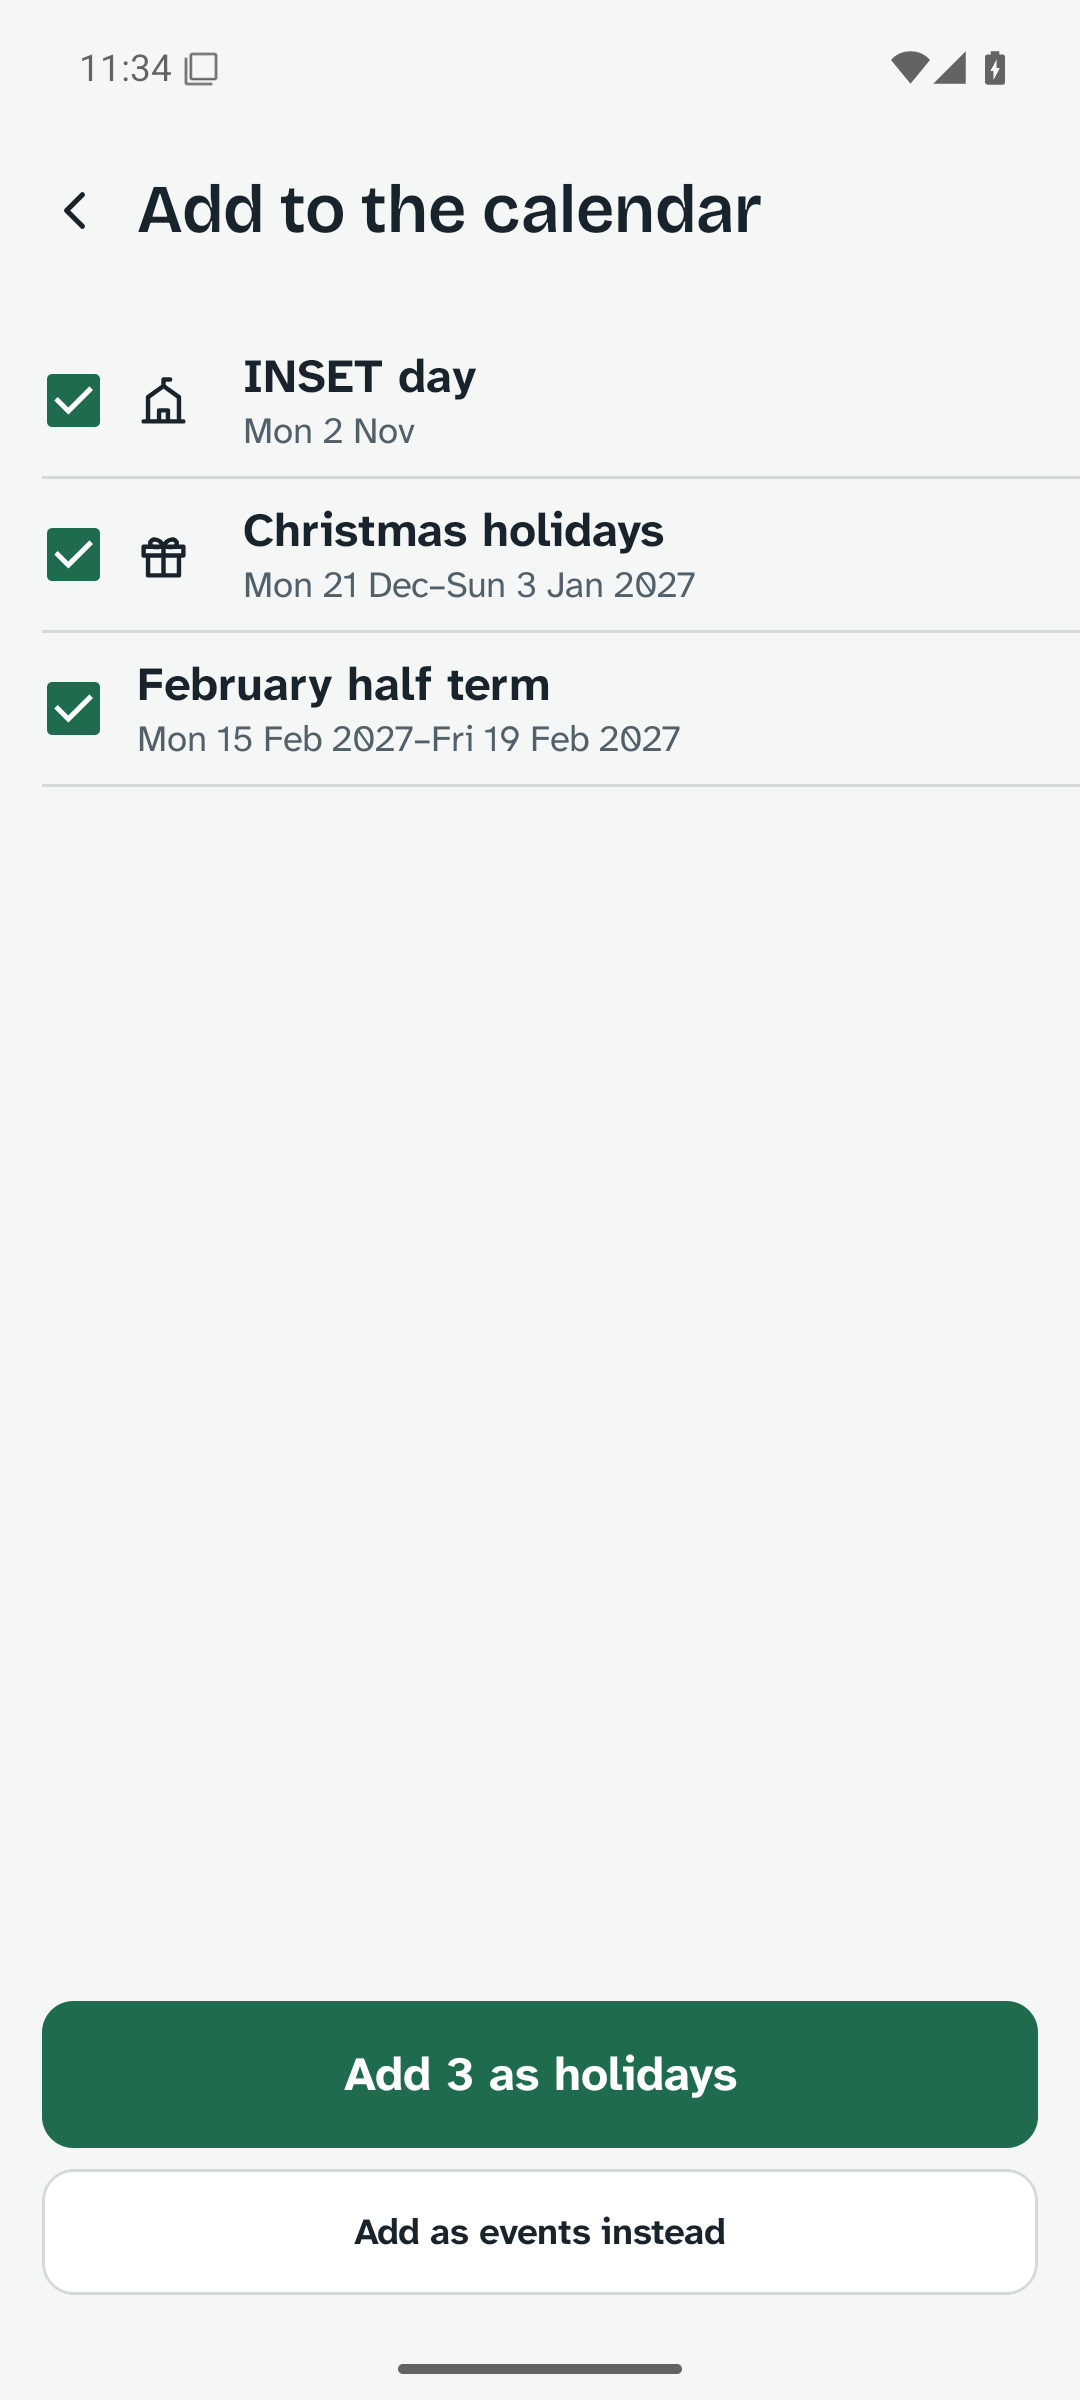
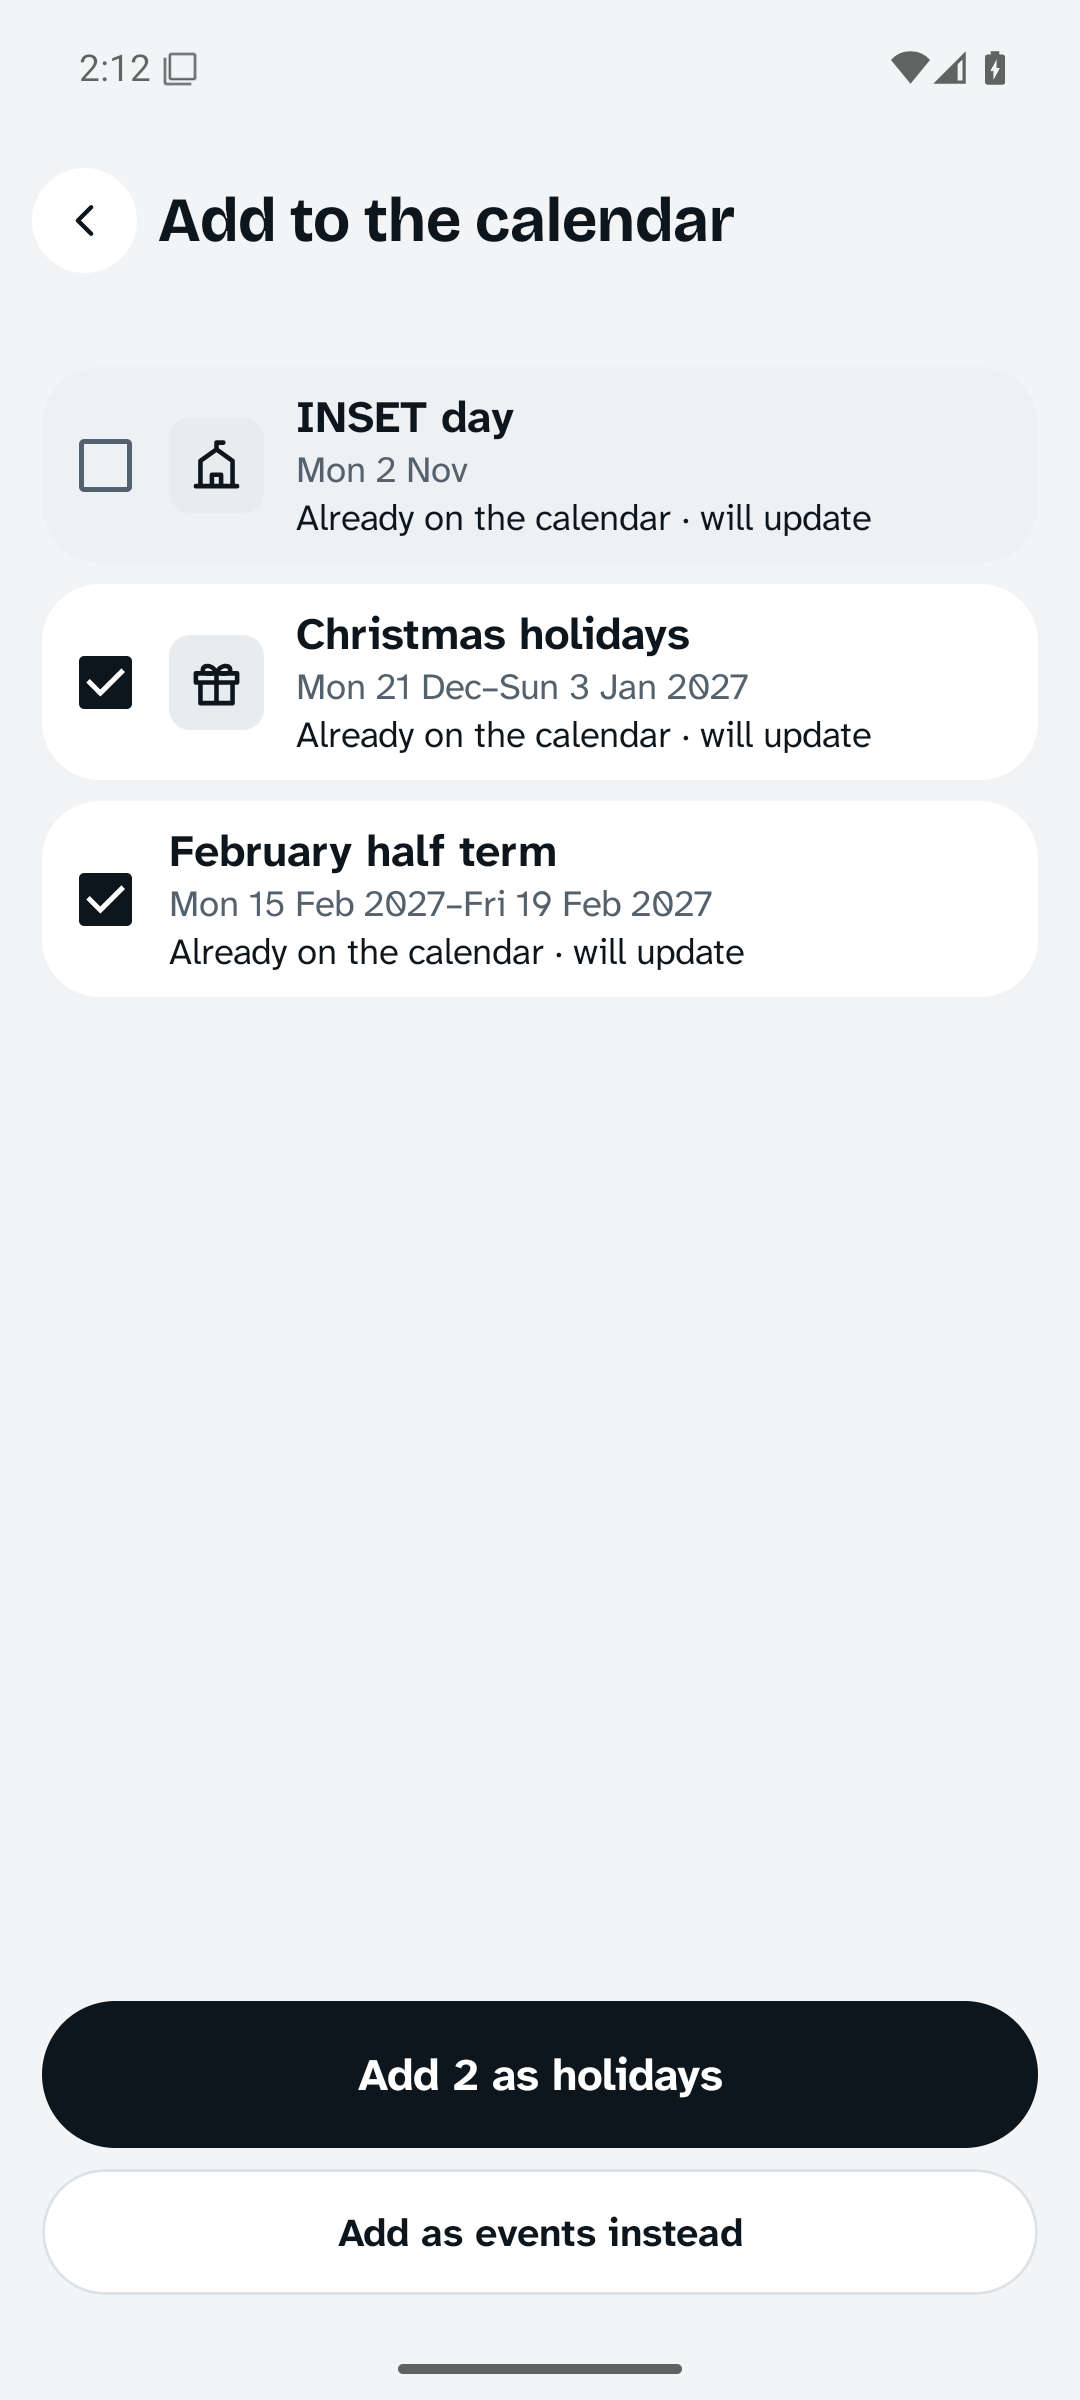
docs: Kitchen Light screenshots, website tokens and copy, DESIGN and REVIEW for the redesign

diff --git a/docs/index.html b/docs/index.html
@@ -14,22 +14,25 @@
 <link href="https://fonts.googleapis.com/css2?family=Atkinson+Hyperlegible+Next:wght@400;700&family=Bricolage+Grotesque:opsz,wght@12..96,600;12..96,700&display=swap" rel="stylesheet">
 <style>
 :root {
-  --paper: #F5F7F6; --surface: #FFFFFF; --sunk: #E9EEEC; --band: #E4EAE7; --rule: #D3DAD7;
-  --ink: #18232B; --ink-muted: #52606A; --action: #1E6B4E; --on-action: #FFFFFF; --today: #B3361C;
+  --paper: #F2F4F6; --surface: #FFFFFF; --sunk: #E8ECEF; --band: #EEF1F3; --rule: #DCE2E6;
+  --ink: #0E161D; --ink-muted: #55616C; --action: #0E161D; --on-action: #FFFFFF; --today: #C2351B; --link: #2456A6;
+  --raised: 0 1px 2px rgb(14 22 29 / 0.05), 0 8px 24px rgb(14 22 29 / 0.06);
+  --floating: 0 2px 4px rgb(14 22 29 / 0.08), 0 24px 48px rgb(14 22 29 / 0.12);
   --display: "Bricolage Grotesque", system-ui, sans-serif;
   --body: "Atkinson Hyperlegible Next", system-ui, sans-serif;
   --measure: 34rem;
 }
 @media (prefers-color-scheme: dark) {
   :root {
-    --paper: #121A1F; --surface: #1B252B; --sunk: #243037; --band: #22303A; --rule: #2C3940;
-    --ink: #E6EDEA; --ink-muted: #A3B1AB; --action: #6CC9A0; --on-action: #0D1A14; --today: #FF8F6B;
+    --paper: #0B0F13; --surface: #161C22; --sunk: #1F272E; --band: #1A2128; --rule: #28313A;
+    --ink: #EEF2F4; --ink-muted: #9EAAB4; --action: #EEF2F4; --on-action: #0B0F13; --today: #FF7B5C; --link: #8DB4F2;
+    --raised: 0 0 0 1px var(--rule); --floating: 0 0 0 1px var(--rule);
   }
 }
 * { box-sizing: border-box; }
 html { -webkit-text-size-adjust: 100%; }
 body { margin: 0; background: var(--paper); color: var(--ink); font: 400 1.0625rem/1.6 var(--body); font-variant-numeric: tabular-nums; }
-a { color: var(--action); text-underline-offset: 0.18em; }
+a { color: var(--link); text-underline-offset: 0.18em; }
 a:hover { text-decoration-thickness: 2px; }
 img { display: block; max-width: 100%; height: auto; }
 .wrap { width: min(72rem, 100% - 2rem); margin-inline: auto; }
@@ -51,17 +54,17 @@ h1 { font-weight: 700; font-size: clamp(2.5rem, 5.5vw, 4rem); line-height: 1.04;
 .ringed::after { content: ""; position: absolute; inset: -0.08em -0.18em -0.02em -0.12em; border: 3px solid var(--today); border-radius: 50%; transform: rotate(-4deg); pointer-events: none; }
 .lede { font-size: 1.25rem; color: var(--ink-muted); max-width: var(--measure); margin: 1.5rem 0 2rem; }
 .actions { display: flex; gap: 0.75rem; flex-wrap: wrap; align-items: center; }
-.button { display: inline-flex; align-items: center; gap: 0.5rem; min-height: 3.5rem; padding: 0 1.5rem; border-radius: 12px; background: var(--action); color: var(--on-action); font-weight: 700; text-decoration: none; }
+.button { display: inline-flex; align-items: center; gap: 0.5rem; min-height: 3.5rem; padding: 0 1.75rem; border-radius: 999px; background: var(--action); color: var(--on-action); font-weight: 700; text-decoration: none; box-shadow: var(--floating); }
 .button:hover { filter: brightness(1.08); }
-.quiet { display: inline-flex; align-items: center; min-height: 3.5rem; padding: 0 1.25rem; border-radius: 12px; border: 1px solid var(--rule); background: var(--surface); color: var(--ink); font-weight: 700; text-decoration: none; }
+.quiet { display: inline-flex; align-items: center; min-height: 3.5rem; padding: 0 1.5rem; border-radius: 999px; border: 1px solid var(--rule); background: var(--surface); color: var(--ink); font-weight: 700; text-decoration: none; }
 .small { font-size: 0.9375rem; color: var(--ink-muted); margin-top: 1rem; }
 
 /* The wall and the pocket: the tablet, with a phone standing in front of it. */
 .stage { position: relative; margin-top: 3.5rem; padding-bottom: 4rem; }
-.tablet { background: var(--surface); border: 1px solid var(--rule); border-radius: 22px; padding: 12px; width: 82%; }
+.tablet { background: var(--surface); border-radius: 26px; padding: 12px; width: 82%; box-shadow: var(--raised); }
 .tablet img { border-radius: 12px; }
-.stage .phone { position: absolute; right: 0; bottom: 0; width: 24%; max-width: none; box-shadow: 0 1.5rem 3rem -1rem rgb(0 0 0 / 0.25); }
-.phone { background: var(--surface); border: 1px solid var(--rule); border-radius: 28px; padding: 9px; max-width: 18rem; margin-inline: auto; }
+.stage .phone { position: absolute; right: 0; bottom: 0; width: 24%; max-width: none; box-shadow: var(--floating); }
+.phone { background: var(--surface); border-radius: 32px; padding: 9px; max-width: 18rem; margin-inline: auto; box-shadow: var(--raised); }
 .phone img { border-radius: 20px; }
 /* Screens whose content sits at the top: shown down to where it ends, not down to an empty floor. */
 .phone.crop img { aspect-ratio: 1080 / 1150; object-fit: cover; object-position: top; border-radius: 20px 20px 12px 12px; }
@@ -87,13 +90,15 @@ h2 { font-weight: 700; font-size: clamp(1.75rem, 3.2vw, 2.375rem); line-height: 
 .pair { display: grid; grid-template-columns: repeat(2, minmax(0, 1fr)); gap: 1.25rem; align-items: start; }
 .pair .phone { max-width: 16rem; }
 
-ul.sources { list-style: none; padding: 0; margin: 1rem 0 0; max-width: var(--measure); border-top: 1px solid var(--rule); }
-ul.sources li { padding: 0.75rem 0; border-bottom: 1px solid var(--rule); }
+ul.sources { list-style: none; padding: 0; margin: 1rem 0 0; max-width: var(--measure); background: var(--surface); border-radius: 22px; box-shadow: var(--raised); overflow: hidden; }
+ul.sources li { padding: 0.875rem 1.25rem; border-bottom: 1px solid var(--rule); }
+ul.sources li:last-child { border-bottom: 0; }
 ul.sources strong { display: block; }
 ul.sources span { color: var(--ink-muted); font-size: 0.9375rem; }
 
-.principles { list-style: none; padding: 0; margin: 0; max-width: 46rem; border-top: 1px solid var(--rule); }
-.principles li { padding: 1rem 0; border-bottom: 1px solid var(--rule); display: grid; grid-template-columns: minmax(0, 14rem) minmax(0, 1fr); gap: 1.5rem; }
+.principles { list-style: none; padding: 0; margin: 0; max-width: 46rem; background: var(--surface); border-radius: 22px; box-shadow: var(--raised); overflow: hidden; }
+.principles li { padding: 1.125rem 1.5rem; border-bottom: 1px solid var(--rule); display: grid; grid-template-columns: minmax(0, 12rem) minmax(0, 1fr); gap: 1.5rem; }
+.principles li:last-child { border-bottom: 0; }
 .principles strong { font-family: var(--display); font-size: 1.125rem; }
 .principles span { color: var(--ink-muted); }
 
@@ -158,8 +163,8 @@ footer.site .wrap { display: flex; justify-content: space-between; gap: 1.5rem; 
       <p class="small">Free. Android 9 or later. No account, no adverts, nothing sent over the internet.</p>
     </div>
     <div class="stage">
-      <figure class="tablet"><img src="screens/display-week.png" width="1280" height="800" alt="The kitchen display's week: a column each for Sam, Alex, Ada and Tom, a row for each day, today circled in red. Chess club, Football and Grandma visiting run across everyone's columns."></figure>
-      <figure class="phone"><img src="screens/phone-agenda.png" width="1080" height="2400" alt="The phone agenda: one event needs someone, the dentist tomorrow with Sam taking, football practice that still needs someone, and swimming with Sam taking."></figure>
+      <figure class="tablet"><img src="screens/display-week.png" width="1280" height="800" alt="The kitchen display's week: a column each for Sam, Alex, Ada and Tom, a row for each day, today lifted as a card and circled in coral. Each entry sits on its person's colour; Chess club, Football and Grandma visiting run across everyone's columns."></figure>
+      <figure class="phone"><img src="screens/phone-agenda.png" width="1080" height="2400" alt="The phone agenda: Saturday with today circled, one event that needs someone, and entries on each person's colour: the dentist tomorrow with Sam taking, football practice that still needs someone."></figure>
     </div>
   </div>
 
@@ -173,12 +178,12 @@ footer.site .wrap { display: flex; justify-content: space-between; gap: 1.5rem; 
         <figure>
           <div class="tablet"><img src="screens/display-week.png" width="1280" height="800" alt="Week view with a column for each person." loading="lazy"></div>
           <h3>The week</h3>
-          <p>People across, days down, today circled in pen. Things for everyone run across the whole row.</p>
+          <p>People across, days down. Each person's entries sit on their own colour, today lifts off the wall, and things for everyone run across the row with the whole family's colours.</p>
         </figure>
         <figure>
-          <div class="tablet"><img src="screens/display-today.png" width="1280" height="800" alt="Today view: each person, what they're doing now and what's next." loading="lazy"></div>
+          <div class="tablet"><img src="screens/display-today.png" width="1280" height="800" alt="Today view: a card for each person in their colour, with what's next." loading="lazy"></div>
           <h3>Today</h3>
-          <p>Each person: what they're doing now, and what's next. "Tomorrow 12:00 PM, Dentist, Sam taking."</p>
+          <p>A card for each person, in their colour: what they're doing now, and what's next. "Tomorrow 12:00 PM, Dentist, taking Tom."</p>
         </figure>
         <figure>
           <div class="tablet"><img src="screens/display-month.png" width="1280" height="800" alt="Month view with half term shaded." loading="lazy"></div>
@@ -199,7 +204,7 @@ footer.site .wrap { display: flex; justify-content: space-between; gap: 1.5rem; 
         </div>
         <div class="pair">
           <figure class="phone crop"><img src="screens/phone-needs-someone.png" width="1080" height="2400" alt="Needs someone: Football practice on Sunday at 2 PM, with buttons I'll take and Alex takes." loading="lazy"></figure>
-          <figure class="phone crop"><img src="screens/phone-detail.png" width="1080" height="2400" alt="Swimming, Tuesday 13 October, 5 to 6 PM, every Tuesday in term time, at the Leisure Centre, Sam taking Ada." loading="lazy"></figure>
+          <figure class="phone crop"><img src="screens/phone-detail.png" width="1080" height="2400" alt="Dentist, Sunday 11 October, 12 to 1 PM, Sam taking Tom." loading="lazy"></figure>
         </div>
       </div>
     </div>
@@ -218,7 +223,7 @@ footer.site .wrap { display: flex; justify-content: space-between; gap: 1.5rem; 
       <div class="split">
         <div>
           <h2 class="sub">Add it in the time it takes to say it.</h2>
-          <p>The add sheet opens on the title. It suggests a picture as you type, and offers who it's for, today or tomorrow, and who's taking them. The button says exactly what will happen: "Add Football practice, Sat 10 Oct 2:00 PM".</p>
+          <p>The add sheet opens on the title. It suggests a picture as you type, and offers who it's for, today or tomorrow, and who's taking them. The button says exactly what will happen: "Add Football practice, Sat 10 Oct 3:00 PM".</p>
           <p>Things can also come in from other apps:</p>
           <ul class="sources">
             <li><strong>"Add to calendar" buttons</strong><span>From tickets, bookings and email: choose House Calendar.</span></li>
@@ -227,7 +232,7 @@ footer.site .wrap { display: flex; justify-content: space-between; gap: 1.5rem; 
             <li><strong>This phone's calendars</strong><span>Copy the next eight weeks across once, then untick what you don't want.</span></li>
           </ul>
         </div>
-        <figure class="phone"><img src="screens/phone-add-sheet.png" width="1080" height="2400" alt="The add sheet: Football practice for Alex, today 2 to 3 PM, taking not needed, and the button Add Football practice, Sat 10 Oct 2:00 PM." loading="lazy"></figure>
+        <figure class="phone"><img src="screens/phone-add-sheet.png" width="1080" height="2400" alt="The add sheet: Football practice for Alex, today 3 to 4 PM, needs someone, and the button Add Football practice, Sat 10 Oct 3:00 PM." loading="lazy"></figure>
       </div>
     </div>
   </section>

diff --git a/REVIEW.md b/REVIEW.md
@@ -63,6 +63,20 @@ Status at hand-over (2026-10-10): all eight modules are built. Seven are verifie
     - An "Add to calendar" intent can start the app before the calendar has loaded. At that point the family zone isn't known yet, and the first version fell back to the phone's zone.
     - Now the raw input waits, and is converted only once the family zone is known (`IntakeModel.resolve`). A phone abroad still files a UK event at UK time.
 
+### Redesign (v0.2, "Kitchen Light")
+
+You asked for a redesign that looks like a professional designer's work. DESIGN.md records the new direction, why the old one looked unfinished, and the alternatives considered. In short:
+- **Person colour now drives the look.** Entries sit on a soft tint of their person's colour, with a coloured rail at their leading edge. An event for everyone carries every member's colour in its rail. Text stays ink, so contrast never depends on the hue. The token test checks every new pairing.
+- **Depth and shape:** cards on a cool ground with soft, cool-tinted shadows (tone and hairlines in dark mode), large titles, pill buttons and chips, and a sliding segmented control.
+- **The primary action is an ink pill, no longer House Points' green.** The two apps no longer share an accent. Person colours are unchanged, so a child still has the same colour in both apps.
+- **Kept:** the pen ring (now coral, `#C2351B`, chosen as the most vivid coral that clears 4.5:1 on every light surface), the empty disc, physical type sizes on the wall, and the 200% text reflow.
+- **On the wall:**
+  - the Week view's rows are now sized by content (empty days slim, busy days tall), so entry cards fit without "+N more" in a normal week
+  - Today is a grid of person cards
+  - Month uses tiles.
+- **Reused, not added:** three separate chip implementations became one `Pill`, and settings became grouped cards. Nothing old was left beside the new.
+- **Screenshots:** `docs/screens` holds only current-design screenshots. Old ones that weren't retaken were removed, and the website uses the new tokens.
+
 ### Process
 
 14. **`main` received the app commits early.** The socket fix branch was started from `module/app`, so merging it carried the app's first commits into `main`. Nothing was lost or rewritten. `module/app` was merged normally afterwards.

diff --git a/DESIGN.md b/DESIGN.md
@@ -176,15 +176,15 @@ Line height is 1.2 × size for `detail` and 1.1 × size for `glance`.
 **Organiser grid (display Week view).**
 - **People row:** each column is headed by a `surface` pill holding the person's disc and their name in their accent colour.
 - **Day label column:** the weekday in `detail` and the day number in `detail-strong`. Today's number is larger and wears the **pen ring**.
-- **Rows:** the grid starts today. Today's row is a `surface` card with the `raised` shadow, so the day you're in lifts off the wall. Other rows sit on `ground`, separated by hairlines.
+- **Rows:** the grid starts today. Today's row is a `surface` card with the `raised` shadow, so the day you're in lifts off the wall. Other rows sit on `ground`, separated by hairlines. Rows share the height by what they hold: an empty day is slim (0.8 of a row, still enough for its label), each entry past the first in the busiest cell adds 0.8, and an everyone band adds 0.75. Today is never less than 1.6.
 - **Entries:** compact entry cards (`r-md`, the person's tint, a 3 dp rail), each holding the time and the title on one line, or two when the column is narrow.
 - **Everyone:** occurrences for everyone are one `band` card across all columns, with the full rail and the group disc.
 - **Holiday:** the day label is hatched with 45° `rule` lines, with the holiday name in `caption`.
 - **"+N more":** cells measure their entries as drawn, and the last line reads "+2 more" when the rest don't fit.
 
-**Today board (display Today view).** A grid of person cards, each one on that person's tint, with a rail across its top:
+**Today board (display Today view).** A grid of person cards, each one on that person's tint, with their rail at the leading edge:
 - the disc (glance size) and the name in their accent colour
-- **Now:** the current title in `glance`, with "until 15:15" in `detail`; or a quiet dash
+- **Now:** the current title in `glance`, with "until 15:15" beside the name; or "Nothing on now" in `detail`, leaving the room to Next
 - **Next:** "Next · Tomorrow 12:00" in `detail`, the title in `detail-strong`, and who's taking.
 
 The grid is 1 card across for one person, 2 for 2 to 4, 3 for 5 or 6. A larger family scrolls a list. An everyone card leads when an everyone occurrence is now or next.
